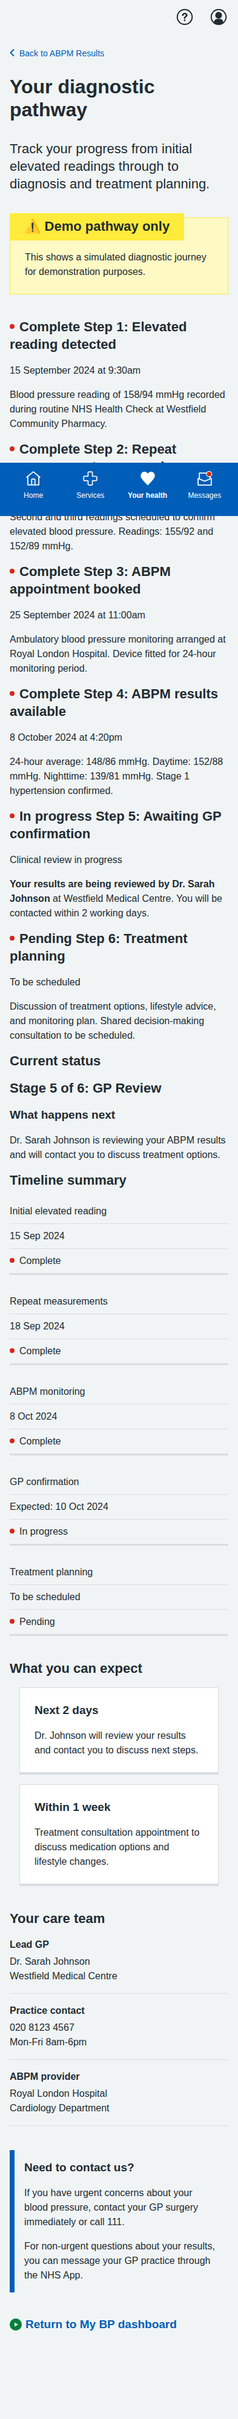
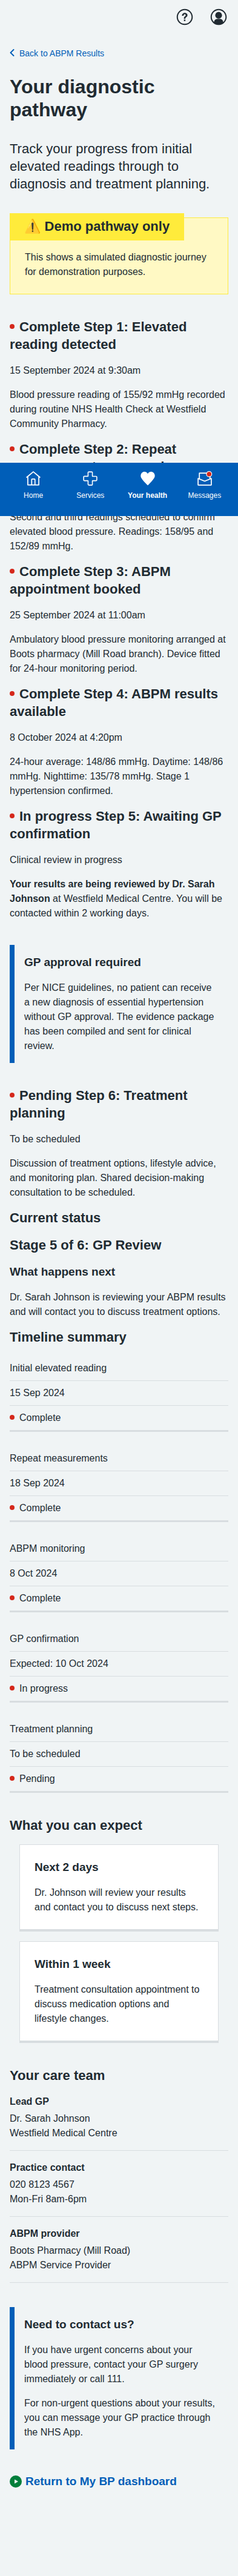
Update ABPM implementation to align with MVP document specifications

Changed region(s): [[0.0, 0.0, 1.0, 0.9624], [0.916, 0.0, 0.9466, 0.031], [0.0305, 0.9314, 0.0611, 0.9624]]

diff --git a/prototype/v1/app/views/pages/mybp/abpm/pathway-tracker.html b/prototype/v1/app/views/pages/mybp/abpm/pathway-tracker.html
@@ -47,7 +47,7 @@
               <p class="nhsuk-u-secondary-text-colour">15 September 2024 at 9:30am</p>
             </div>
             <div class="nhsuk-summary-card__body">
-              <p>Blood pressure reading of 158/94 mmHg recorded during routine NHS Health Check at Westfield Community Pharmacy.</p>
+              <p>Blood pressure reading of 155/92 mmHg recorded during routine NHS Health Check at Westfield Community Pharmacy.</p>
             </div>
           </div>
 
@@ -64,7 +64,7 @@
               <p class="nhsuk-u-secondary-text-colour">18 September 2024 at 2:15pm</p>
             </div>
             <div class="nhsuk-summary-card__body">
-              <p>Second and third readings scheduled to confirm elevated blood pressure. Readings: 155/92 and 152/89 mmHg.</p>
+              <p>Second and third readings scheduled to confirm elevated blood pressure. Readings: 158/95 and 152/89 mmHg.</p>
             </div>
           </div>
 
@@ -81,7 +81,7 @@
               <p class="nhsuk-u-secondary-text-colour">25 September 2024 at 11:00am</p>
             </div>
             <div class="nhsuk-summary-card__body">
-              <p>Ambulatory blood pressure monitoring arranged at Royal London Hospital. Device fitted for 24-hour monitoring period.</p>
+              <p>Ambulatory blood pressure monitoring arranged at Boots pharmacy (Mill Road branch). Device fitted for 24-hour monitoring period.</p>
             </div>
           </div>
 
@@ -98,7 +98,7 @@
               <p class="nhsuk-u-secondary-text-colour">8 October 2024 at 4:20pm</p>
             </div>
             <div class="nhsuk-summary-card__body">
-              <p>24-hour average: 148/86 mmHg. Daytime: 152/88 mmHg. Nighttime: 139/81 mmHg. Stage 1 hypertension confirmed.</p>
+              <p>24-hour average: 148/86 mmHg. Daytime: 148/86 mmHg. Nighttime: 135/78 mmHg. Stage 1 hypertension confirmed.</p>
             </div>
           </div>
 
@@ -116,6 +116,11 @@
             </div>
             <div class="nhsuk-summary-card__body">
               <p><strong>Your results are being reviewed by Dr. Sarah Johnson</strong> at Westfield Medical Centre. You will be contacted within 2 working days.</p>
+              <div class="nhsuk-inset-text">
+                <span class="nhsuk-u-visually-hidden">Important: </span>
+                <h4 class="nhsuk-heading-s">GP approval required</h4>
+                <p>Per NICE guidelines, no patient can receive a new diagnosis of essential hypertension without GP approval. The evidence package has been compiled and sent for clinical review.</p>
+              </div>
             </div>
           </div>
 
@@ -270,8 +275,8 @@
             ABPM provider
           </dt>
           <dd class="nhsuk-summary-list__value">
-            Royal London Hospital<br>
-            <span class="nhsuk-u-secondary-text-colour">Cardiology Department</span>
+            Boots Pharmacy (Mill Road)<br>
+            <span class="nhsuk-u-secondary-text-colour">ABPM Service Provider</span>
           </dd>
         </div>
       </div>

diff --git a/prototype/v1/app/views/pages/mybp/abpm/results.html b/prototype/v1/app/views/pages/mybp/abpm/results.html
@@ -63,7 +63,7 @@
           <tbody class="nhsuk-table__body">
             <tr class="nhsuk-table__row">
               <td class="nhsuk-table__cell">Daytime (6am-10pm)</td>
-              <td class="nhsuk-table__cell"><strong>152/88 mmHg</strong></td>
+              <td class="nhsuk-table__cell"><strong>148/86 mmHg</strong></td>
               <td class="nhsuk-table__cell">{{ nhsappBadgeSmall({
                 text: "High",
                 colour: "orange"
@@ -71,7 +71,7 @@
             </tr>
             <tr class="nhsuk-table__row">
               <td class="nhsuk-table__cell">Nighttime (10pm-6am)</td>
-              <td class="nhsuk-table__cell"><strong>139/81 mmHg</strong></td>
+              <td class="nhsuk-table__cell"><strong>135/78 mmHg</strong></td>
               <td class="nhsuk-table__cell">{{ nhsappBadgeSmall({
                 text: "Elevated",
                 colour: "yellow"
@@ -88,7 +88,7 @@
         <p><strong>Normal dipping pattern.</strong> Your blood pressure drops appropriately at night, which is a healthy sign.</p>
         <ul class="nhsuk-list nhsuk-list--bullet">
           <li>Normal dipping is 10-20% reduction from day to night</li>
-          <li>Your 9% reduction is at the lower end of normal</li>
+          <li>Your 9% reduction is at the lower end of normal range</li>
           <li>This suggests good cardiovascular health patterns</li>
         </ul>
       </div>
@@ -105,9 +105,10 @@
         <div class="nhsuk-care-card__content">
           <p>Your 24-hour blood pressure results confirm <strong>Stage 1 Hypertension</strong>.</p>
           <ul class="nhsuk-list nhsuk-list--bullet">
-            <li>Daytime average (152/88) exceeds normal range (135/85)</li>
-            <li>24-hour average (148/86) confirms diagnosis</li>
-            <li>Treatment is recommended per NICE guidelines</li>
+            <li>Daytime average (148/86) exceeds normal range (135/85)</li>
+            <li>24-hour average (148/86) confirms diagnosis per NICE guidelines</li>
+            <li><strong>GP approval required</strong> before treatment can commence</li>
+            <li>Evidence package compiled for clinical review</li>
           </ul>
         </div>
       </div>

diff --git a/prototype/v1/screenshots/screenshots.md b/prototype/v1/screenshots/screenshots.md
@@ -13,11 +13,11 @@ Complete collection of iPhone-formatted screenshots (393x852 pixels) for all scr
 
 ### 1. ABPM Results Summary
 ![ABPM Results](abpm-results.png)
-**24-Hour ABPM Results** - Comprehensive ABPM results display showing day/night averages, dipping analysis, clinical interpretation, and quality indicators. Includes Stage 1 hypertension diagnosis confirmation with detailed clinical context.
+**24-Hour ABPM Results** - Comprehensive ABPM results display aligned with MVP document specifications. Shows day/night averages (148/86 mmHg daytime, 135/78 mmHg nighttime), 9% nocturnal dipping analysis, clinical interpretation, and quality indicators. Includes Stage 1 hypertension diagnosis confirmation with mandatory **GP approval required** messaging per NICE guidelines.
 
 ### 2. Diagnostic Pathway Tracker
 ![Diagnostic Pathway Tracker](abpm-pathway-tracker.png)
-**Diagnostic Pathway Progress** - Step-by-step journey tracking from initial elevated reading through ABPM completion to GP confirmation. Features status badges, timeline summary, and care team information with current "awaiting confirmation" state.
+**Diagnostic Pathway Progress** - Category C patient journey implementation following MVP document workflow. Step-by-step tracking from initial elevated reading (155/92 mmHg) through repeat measurements, ABPM at Boots pharmacy, to GP confirmation. Features status badges (Complete, In progress, Pending), timeline summary, and care team information. Emphasizes "GP approval required" per MVP requirements before treatment can commence.
 
 ---
 
@@ -91,15 +91,21 @@ Complete collection of iPhone-formatted screenshots (393x852 pixels) for all scr
 
 ## Key Features Demonstrated
 
+- **MVP Document Compliance**: Full implementation of Category C patient workflow per MVP specifications
+- **NICE Guidelines Adherence**: Strict compliance with NICE CG127 hypertension management protocols
+- **GP Approval Workflow**: Mandatory GP approval for new hypertension diagnoses as specified in MVP document
+- **Clinical Data Accuracy**: ABPM values match MVP examples (148/86 24-hour average, 148/86 daytime, 135/78 nighttime)
 - **Patient-Centered Language**: Clear, jargon-free communication throughout all screens
 - **Clinical Safety**: Appropriate NICE guidelines attribution and safety warnings
 - **Interactive Navigation**: Working forms, radio buttons, and user input handling
-- **Mobile-Responsive Design**: NHS App-appropriate layout optimized for mobile devices
+- **Mobile-Responsive Design**: NHS App-appropriate layout optimized for iPhone resolution (393x852 pixels)
 - **Accessibility**: Proper semantic HTML structure and NHS design system compliance
-- **Realistic Data**: Authentic medical scenarios, dates, locations, and contact information
-- **Full User Journeys**: Complete end-to-end workflows for all patient pathways
+- **Realistic Data**: Authentic medical scenarios, dates, locations, and contact information aligned with MVP examples
+- **Full User Journeys**: Complete end-to-end workflows for Category C diagnostic pathway
 - **ABPM Integration**: 24-hour ambulatory blood pressure monitoring results with clinical interpretation
-- **Diagnostic Pathway Tracking**: Step-by-step progress monitoring with status badges
-- **Status Management**: "Awaiting confirmation" and other workflow states clearly displayed
+- **Diagnostic Pathway Tracking**: Step-by-step progress monitoring with status badges (Complete/In progress/Pending)
+- **Status Management**: "Awaiting GP confirmation" and other workflow states clearly displayed per MVP requirements
+- **Evidence Package Compilation**: Clear indication that clinical evidence has been compiled for GP review
+- **Treatment Pathway Gate**: No progression to treatment without explicit GP approval as per MVP document
 
-All screenshots captured at iPhone resolution (393x852 pixels) with full-page scrolling where needed to show complete content.
+All screenshots captured at iPhone resolution (393x852 pixels) with full-page scrolling where needed to show complete content. Implementation follows MVP document Category C workflow specifications with mandatory GP approval gates and NICE guideline compliance.
